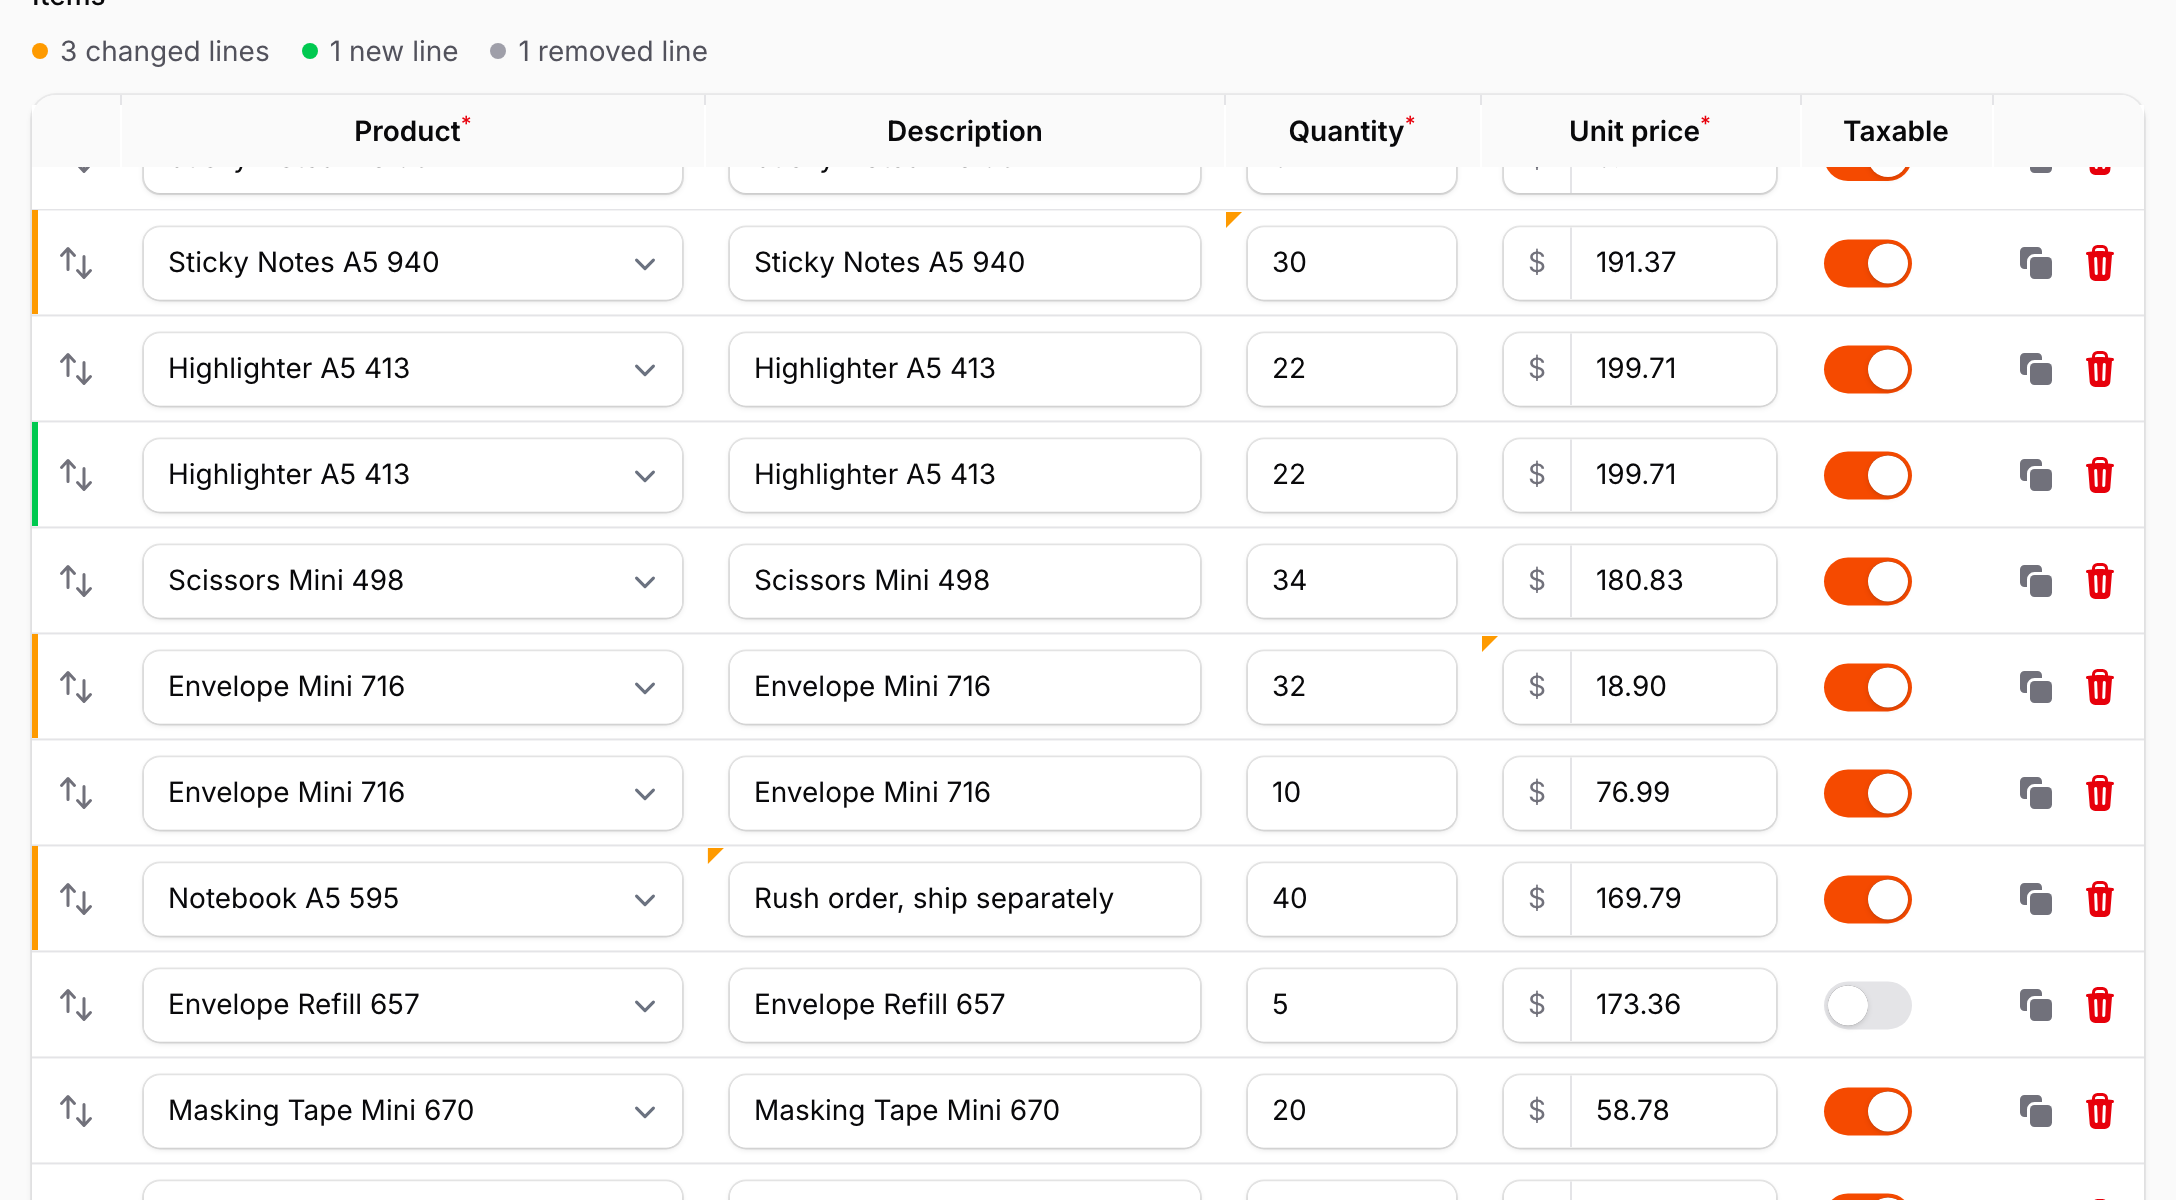
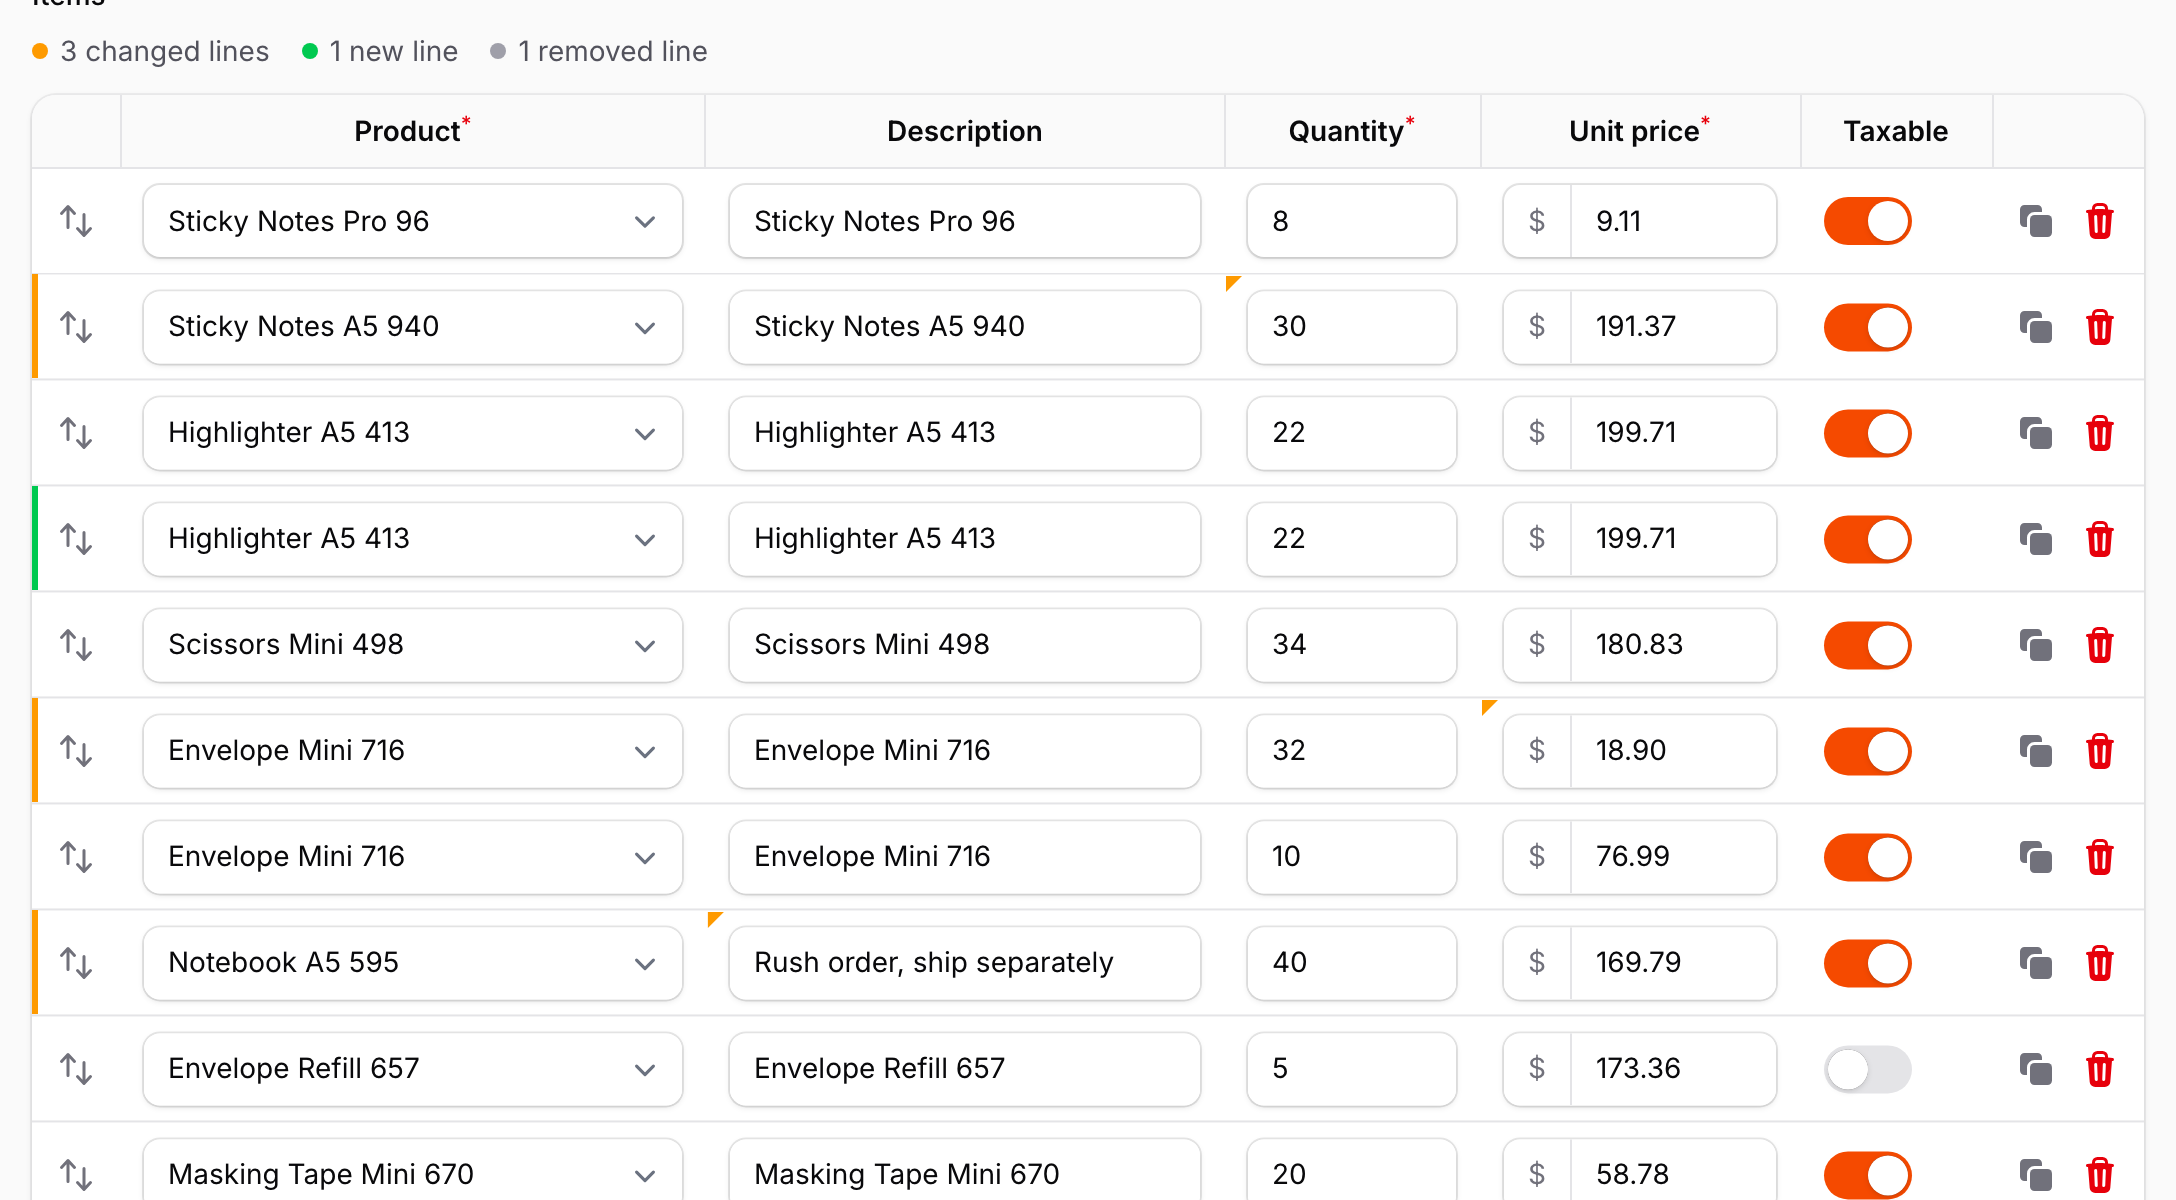
Fixed height, retaken screenshots

diff --git a/README.md b/README.md
@@ -52,6 +52,7 @@ On an order form with a `relationship()` repeater, a searchable select, a JavaSc
 - **Unsaved changes**: `->warpChangeMarks()` marks the cells and lines changed since the last save, and counts changed, new and removed lines.
 - **Search**: `->warpSearch()` adds a search field that finds text in every line, including the ones drawn on the canvas, which the browser's own find cannot see.
 - **Line numbers**: `->warpRowNumbers()` numbers the lines in a first column, so "line 214" in a validation message or a phone call is easy to find.
+- **Fixed height**: `->warpHeight(480)` scrolls the lines inside the repeater, so the header, the summary row and the fields after the repeater stay in place.
 - **Theme aware**: colors, fonts, spacing and icons come from Filament's CSS, so custom themes and dark mode work without configuration.
 - **Automatic fallback**: layouts other than `table()` and empty repeaters render the regular Filament repeater with no change on your side.
 
@@ -393,6 +394,28 @@ Repeater::make('lines')
 - The header shows `#`, with "Line number" for screen readers (translatable).
 - With multi-level rows, the number spans all the lines of an item. In narrow containers, where Filament stacks each item as a card, it is shown as `#12` at the top of the card.
 - The column is as wide as the largest number, measured in the same way as the other columns.
+
+## Fixed height
+
+By default the repeater is as tall as its lines, and the page scrolls. `warpHeight()` gives the lines a fixed height and scrolls them inside the repeater instead, like a spreadsheet:
+
+```php
+Repeater::make('lines')
+    ->table([...])
+    ->schema([...])
+    ->warp()
+    ->warpHeight(480);      // pixels, or any CSS length: '60vh', '30rem'
+```
+
+![Fixed height](https://raw.githubusercontent.com/qalainau-labs/filament-warp-repeater-docs/main/art/fixed-height.png)
+
+- Only the lines scroll. The header row, the summary row (`warpSummary()`), the "Add" button and the rest of the form stay where they are, so the fields after a 1,000-line repeater are one scroll away.
+- When the lines are shorter than the height, the repeater is just as tall as its lines.
+- Everything that moves to a line scrolls inside the repeater first, then the page if needed: saving with validation errors, the error navigation, search, Enter and the arrow keys of `warpSpreadsheet()`.
+- The scroll position stays when Livewire updates the form.
+- With narrow containers (Filament's stacked layout), the cards scroll inside the same height.
+
+With classic scrollbars (Windows, or macOS set to always show scrollbars), the scrollbar is drawn over the right edge of the last column, which is usually the item actions. It is a thin scrollbar where the browser supports `scrollbar-width`.
 
 ## Supported fields
 

diff --git a/CHANGELOG.md b/CHANGELOG.md
@@ -41,5 +41,6 @@ and this project adheres to [Semantic Versioning](https://semver.org/spec/v2.0.0
 - Search (`->warpSearch()`): a search field above the repeater that highlights the matching cells in every line and
   moves between them. With a sticky header, the tools above the repeater stay on screen too.
 - Line numbers (`->warpRowNumbers()`): a first column with the number of each line.
+- Fixed height (`->warpHeight()`): the lines scroll inside the repeater, while the header and the summary row stay in place.
 - Narrow containers use Filament's stacked layout, like the native repeater.
 - Automatic fallback to the regular Filament repeater for layouts other than `table()` and for empty repeaters.
